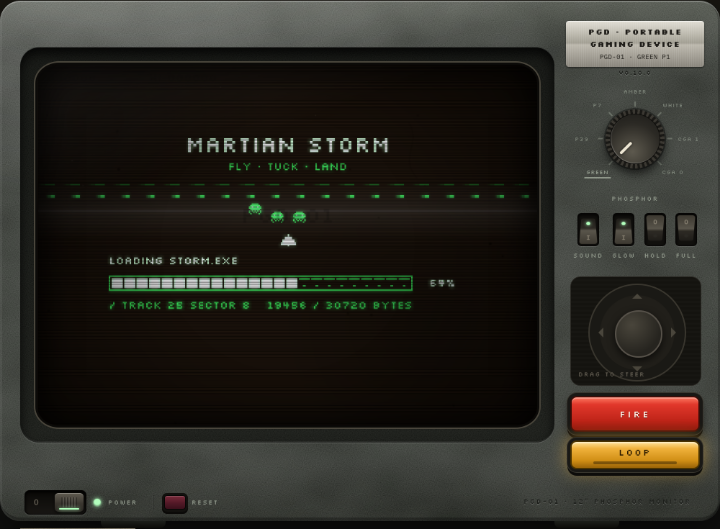
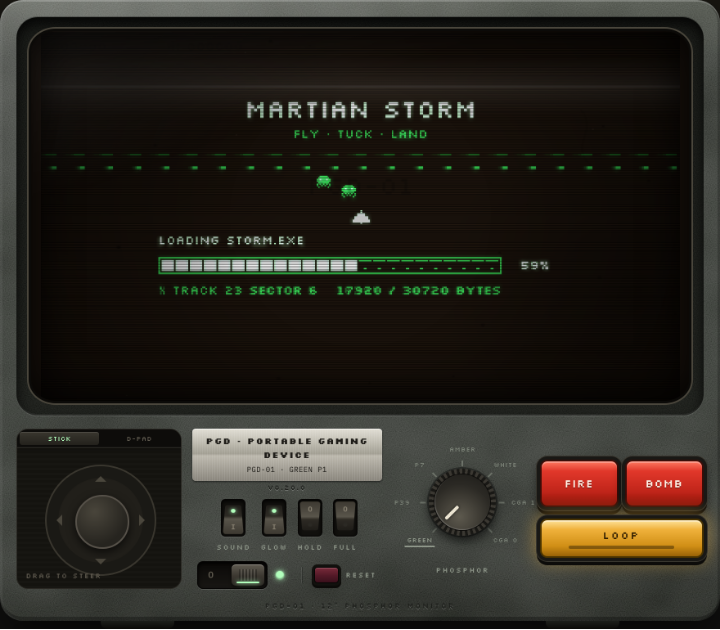
feat(console): a two-handed desk set, stick left, buttons right, full-width tube (GAM-114) (#166)
* feat(console): a two-handed desk set, stick left, buttons right, full-width tube

On desk the tube now spans the set's full width in a 16:9 shape, with a deck
under it: the stick well (and its STICK / D-PAD switch) at the far left, FIRE
and BOOST at the far right, and the nameplate, switches, POWER, RESET and the
dial between them. The set grows with the window until it fills its height.
Button-pad disks split their pad as on the sideways console. Share images and
README screenshots are re-captured.

Refs GAM-114

Claude-Session: https://claude.ai/code/session_01KVgNwszYVvfqe7MTAzj6og

* docs: the desk row of the layout table describes the control deck

Refs GAM-114

Claude-Session: https://claude.ai/code/session_01KVgNwszYVvfqe7MTAzj6og

* fix(console): line the desk switches up with the plate and POWER

The SOUND / GLOW / HOLD / FULL row was centred in the deck's middle
column; on desk it now starts at the same left edge as the nameplate
and the POWER row, with the dial still centred in its own column.

Refs GAM-114

Claude-Session: https://claude.ai/code/session_01KVgNwszYVvfqe7MTAzj6og

---------

diff --git a/src/styles/console.css b/src/styles/console.css
@@ -596,7 +596,7 @@ h1 .h-dx{color:#cfc3a3}
 .padkey:focus-visible{outline:2px solid var(--phos);outline-offset:4px}
 [data-off] .padkey{filter:saturate(.25) brightness(.5)}
 /* sideways console only: three red bays on the right with CLUSTER under them, UFO above METEORS on the left.
-   Desk and portrait keep the two-row pad inside the stick. The buttons leave their boxes and join the face grid. */
+   Portrait keeps the two-row pad inside the stick (desk splits it too, at the end of this file). The buttons leave their boxes and join the face grid. */
 [data-pad][data-layout="console"] .stickzone,[data-pad][data-layout="console"] #btnpad,[data-pad][data-layout="console"] .keyrow{display:contents}
 [data-pad][data-layout="console"] .tv-face{grid-template-rows:auto auto minmax(0,1fr) auto auto;grid-template-areas:"rock screen dial" "pwr screen dial" ". screen plate" "ufo screen bays" "met screen clus"}
 [data-pad][data-layout="console"] #btnpad .bayrow{display:grid;grid-area:bays;grid-template-columns:repeat(3,minmax(0,1fr));gap:6px;height:52px;min-width:0;margin-inline:4px;align-self:end}
@@ -615,3 +615,51 @@ h1 .h-dx{color:#cfc3a3}
    which setting is on, so the hint goes */
 .stickzone{container-type:size}
 @container (max-height:175px){.dhint{display:none !important}}
+
+/* ---- desk, the widest set (GAM-114): built for two hands. The tube spans the full width in a 16 : 9 shape; under it
+   a control deck holds the stick well at the far left, FIRE and BOOST at the far right, and the nameplate, switches,
+   POWER, RESET and the dial between them (the plate, switches and POWER row share one left edge). The set grows with the window until the whole of it fits the window's height.
+   Full screen keeps its own layout; an embedding page sizes the frame to the set, so there the width alone decides. ---- */
+@media (min-width:721px){
+  :root{--desk-min:880px}
+  :root[data-layout="desk"]:not([data-full]):not([data-embed]) .wrap{max-width:clamp(var(--desk-min), calc((100vh - 470px) * 16 / 9 + 104px), 1680px)}
+  @supports (height:100dvh){:root[data-layout="desk"]:not([data-full]):not([data-embed]) .wrap{max-width:clamp(var(--desk-min), calc((100dvh - 470px) * 16 / 9 + 104px), 1680px)}}
+  :root[data-layout="desk"]:not([data-full]) .tv-face{--fp:clamp(14px,1.6vw,22px);grid-template-columns:minmax(140px,200px) minmax(0,1fr) minmax(140px,200px);grid-template-rows:auto auto;
+    grid-template-areas:"screen screen screen" "stick ctl fire";gap:16px clamp(20px,2.6vw,36px);padding:var(--fp) var(--fp) calc(var(--fp) + 18px)}
+  :root[data-layout="desk"]:not([data-full]) .tube-surround{padding:clamp(10px,1.4vw,18px);align-self:stretch}
+  :root[data-layout="desk"]:not([data-full]) .screen{aspect-ratio:16/9}
+  :root[data-layout="desk"]:not([data-full]) .pad{display:contents}
+  :root[data-layout="desk"]:not([data-full]) .stickzone{grid-area:stick;height:auto;min-height:176px;align-self:stretch}
+  :root[data-layout="desk"]:not([data-full]) .keyrow{grid-area:fire;align-self:center;gap:14px}
+  :root[data-layout="desk"]:not([data-full]) .fire{height:58px;font-size:14px}
+  :root[data-layout="desk"]:not([data-full]) .boost{height:48px}
+  :root[data-layout="desk"]:not([data-full]) .controls{grid-area:ctl;display:grid;grid-template-columns:auto auto;grid-template-areas:"plate dial" "rock dial" "pwr dial";
+    align-content:center;justify-content:center;align-items:center;justify-items:start;gap:10px clamp(16px,2.4vw,32px)}
+  :root[data-layout="desk"]:not([data-full]) .nameplate{grid-area:plate;width:220px}
+  :root[data-layout="desk"]:not([data-full]) .dial-block{grid-area:dial;justify-self:center}
+  :root[data-layout="desk"]:not([data-full]) .rockers{grid-area:rock}
+  :root[data-layout="desk"]:not([data-full]) .power{grid-area:pwr;position:static}
+  :root[data-layout="desk"]:not([data-full]) .power > .ctl-label{display:none}
+  :root[data-layout="desk"]:not([data-full]) .emboss{left:50%;right:auto;bottom:11px;transform:translateX(-50%)}
+  /* a button-pad disk (I Invade, ROCKETX) splits its pad as on the sideways console: the red bays and CLUSTER under the right
+     hand, UFO and METEORS under the left */
+  :root[data-pad][data-layout="desk"]:not([data-full]) .stickzone,:root[data-pad][data-layout="desk"]:not([data-full]) #btnpad,:root[data-pad][data-layout="desk"]:not([data-full]) .keyrow{display:contents}
+  :root[data-pad][data-layout="desk"]:not([data-full]) .tv-face{grid-template-rows:auto auto auto;grid-template-areas:"screen screen screen" "ufo ctl bays" "met ctl clus"}
+  :root[data-pad][data-layout="desk"]:not([data-full]) .controls{grid-row:2 / span 2}
+  :root[data-pad][data-layout="desk"]:not([data-full]) #btnpad .bayrow{display:grid;grid-area:bays;grid-template-columns:repeat(3,minmax(0,1fr));gap:8px;height:64px;min-width:0;align-self:end}
+  :root[data-pad][data-layout="desk"]:not([data-full]) #btnpad .bayrow .padkey{grid-column:auto;height:100%;font-size:15px}
+  :root[data-pad][data-layout="desk"]:not([data-full]) #btnpad #pad4Btn{grid-area:clus;height:64px;font-size:12px;align-self:start}
+  :root[data-pad][data-layout="desk"]:not([data-full]) #btnpad #pad5Btn{grid-area:met;height:64px;font-size:12px;align-self:start}
+  :root[data-pad][data-layout="desk"]:not([data-full]) #boostBtn{grid-area:ufo;height:64px;width:auto;align-self:end}
+  :root[data-pad][data-layout="desk"][data-game="rocketx"]:not([data-full]) #btnpad #pad4Btn{grid-area:met}
+  :root[data-pad][data-layout="desk"][data-game="rocketx"]:not([data-full]) #btnpad #pad5Btn{grid-area:clus}
+}
+/* a narrow or short desk window: a smaller plate, dial and stick well keep the deck on one row and the set on screen */
+@media (min-width:721px) and (max-width:900px),(min-width:721px) and (max-height:820px){
+  :root{--desk-min:760px}
+  :root[data-layout="desk"]:not([data-full]) .stickzone{min-height:156px}
+  :root[data-layout="desk"]:not([data-full]) .tv-face{grid-template-columns:minmax(132px,1fr) auto minmax(132px,1fr)}
+  :root[data-layout="desk"]:not([data-full]) .nameplate{width:176px}
+  :root[data-layout="desk"]:not([data-full]) .dial-wrap{width:124px;height:124px}
+  :root[data-layout="desk"]:not([data-full]) .dial{transform:scale(.84)}
+}

diff --git a/src/components/Joystick.tsx b/src/components/Joystick.tsx
@@ -1,8 +1,8 @@
 /** The floating on-screen joystick, the fixed D-pad that can take its place (GAM-112: the switch in the well's top
     top switches STICK ↔ D-PAD, a fixed cross with diagonals; logic in src/console/dpad.ts), and the button pad that takes its place while a game that has no use for a stick
     is playing (`controls: 'pad'` on its disk: I Invade). The pad is six optional slots, `pad1`…`pad6`, in two rows
-    of three; each shows only while the game maps it (see src/console/buttons.ts). The sideways console layout
-    lifts the three bays and CLUSTER out to the right (see console.css); this markup stays one pad. */
+    of three; each shows only while the game maps it (see src/console/buttons.ts). The sideways console and desk layouts
+    lift the three bays and CLUSTER out to the right (see console.css); this markup stays one pad. */
 export function Joystick(){
   return (
     <div className="stickzone" id="stickzone" aria-label="Joystick: touch and drag to steer">

diff --git a/tools/share-images/share.css b/tools/share-images/share.css
@@ -1,6 +1,6 @@
 html,body{margin:0;width:1200px;height:630px;overflow:hidden}
 body{position:relative;background:radial-gradient(90% 75% at 64% -6%,#2e2a22 0,#1a1813 46%,#111110 80%) #111110;color:#ddd3ba;font-family:Spectral,Georgia,serif}
-.tv{position:absolute;right:-56px;top:48px;width:690px;filter:drop-shadow(0 28px 36px rgba(0,0,0,.7))}
+.tv{position:absolute;right:20px;top:30px;width:620px;filter:drop-shadow(0 28px 36px rgba(0,0,0,.7))}
 .copy{position:absolute;left:60px;top:58px;width:470px;display:flex;flex-direction:column;gap:16px}
 h1{margin:0;font-family:"Barlow Condensed",sans-serif;font-weight:700;font-size:58px;line-height:1;letter-spacing:.18em;text-transform:uppercase;color:#e4dac0}
 h1 small{display:block;font-size:22px;letter-spacing:.2em;color:#a99d84;margin-top:10px}

diff --git a/AGENTS.md b/AGENTS.md
@@ -99,7 +99,7 @@ Requirements 1 to 12 below are built: the console boots into a disk menu with se
 ### 10. I Invade
 
 - The fourth disk: the fixed-screen alien shooter played from the other side, after the owner's brief and direction (GAM-24). The fleet starts at the bottom of the screen and attacks upward; the tanks hold the top (GAM-23). **No steering:** the fleet marches on its own, side to side, a row closer at each edge and faster as it thins. The player only picks which of the three bomb bays fires, and when (the outermost columns and the one nearest the fleet's middle, lit along its front): aiming is timing. Everything the fleet throws goes up.
-- **No joystick:** the disk sets `controls: 'pad'`, so while it plays (`ready`, `play`, `dying`, `clear`, `paused`) the stick's zone holds a button pad (`pad1`…`pad6`, two rows of three: ◀ ▲ ▶ bays on top, CLUSTER and METEORS underneath, sixth unused) and FIRE's row steps aside. On the sideways console layout only (`data-layout="console"`, short, tall and full screen) the three red bays sit on the right with CLUSTER under them, and UFO sits above METEORS on the left. Desk and the portrait layouts keep the two-row pad. Keys: <kbd>←</kbd> <kbd>↑</kbd> <kbd>→</kbd> or <kbd>Z</kbd> <kbd>X</kbd> <kbd>C</kbd> for the bays, <kbd>Space</kbd> (FIRE, labelled BOMB) for the middle one, <kbd>A</kbd> cluster, <kbd>S</kbd> meteors, <kbd>Shift</kbd> (BOOST, labelled UFO) the UFO. A tap on the screen fires the nearest bay (`api.tapX`). The stick is back for the console's own screens.
+- **No joystick:** the disk sets `controls: 'pad'`, so while it plays (`ready`, `play`, `dying`, `clear`, `paused`) the stick's zone holds a button pad (`pad1`…`pad6`, two rows of three: ◀ ▲ ▶ bays on top, CLUSTER and METEORS underneath, sixth unused) and FIRE's row steps aside. On the sideways console layout (`data-layout="console"`, short, tall and full screen) and on desk (GAM-114) the three red bays sit on the right with CLUSTER under them, and UFO sits above METEORS on the left. The portrait layouts keep the two-row pad. Keys: <kbd>←</kbd> <kbd>↑</kbd> <kbd>→</kbd> or <kbd>Z</kbd> <kbd>X</kbd> <kbd>C</kbd> for the bays, <kbd>Space</kbd> (FIRE, labelled BOMB) for the middle one, <kbd>A</kbd> cluster, <kbd>S</kbd> meteors, <kbd>Shift</kbd> (BOOST, labelled UFO) the UFO. A tap on the screen fires the nearest bay (`api.tapX`). The stick is back for the console's own screens.
 - **The brief's rules:** one fleet a game, no spares (a fresh formation each wave; lose every alien and the invasion is repelled). Tanks have three lives: a knocked-out tank is gone for 1.4 s, then rolls back in blinking and untouchable for 1.2 s. Teams per wave `[1, 1, 2, 3, 3, 4, 5, 6]`, holding at 6. Scoring: hit a tank 100, destroy one 300, every tank destroyed 20 per alien left, touchdown 500 + 20 per alien left.
 - **Weapons:** bombs (one in the air per bay, two from wave 6, 0.3 s apart); the cluster sweep (the earth-facing alien in each column, the lowest row index still alive, so a damaged column can fire from a different row: one shot at a time, left to right then right to left, for about 3 s; armed 2.5 s into a wave, then the button stays dark for another 7 s); the UFO carpet (crosses under the fleet, a bomb up every 0.3 s, 12 s recharge, starts half charged, shells through a gap bring it down); the meteor swarm (18 rocks from below the fleet, charged by other weapons' hits and a slow trickle, a bar under the score).
 - **Tanks:** `skill` 0 on wave 1 to 1 by wave 6, then only reload shortens. They dodge what's coming up (probabilistically), lead the march when they aim, fire one shell each (a shell knocks out a bomb or a cluster shot and carries on), hunt the bay that fired last, keep 16 px apart, and fire through their own walls when every column left is behind one.
@@ -238,6 +238,7 @@ Launcher fields on every disk (GAM-32, see the [Web launcher build spec](https:/
 - **One monitor, many games.** The CRT set, the phosphor dial, the SOUND / GLOW / HOLD / FULL switches, POWER and RESET belong to the console and work the same in every game.
 - **Retro and original.** Games are tributes at most: original names, characters, art, sound and code. Never copy another game's assets or trademarks.
 - **Four colours.** Everything on the tube goes through the palette quantiser and colour roles, so it looks right on green, amber, white and CGA.
+- **Desk, built for two hands (GAM-114, owner's call):** on `desk` the tube spans the set's full width in a 16 : 9 shape, and a deck under it holds the stick well at the far left, FIRE and BOOST at the far right, and the nameplate, switches, POWER, RESET and the dial between them. The set grows with the window until it fills the window's height (the `.wrap` formula at the end of `console.css`); an embed frame keeps the width-only sizing.
 - **Every screen size.** The layout detector picks `desk`, `phone-portrait`, `tablet-portrait` or `console`, and the playfield grid adapts to the tube's shape. The loader and every loading screen have to fit all of them, including the iPhone 17 Pro and Pro Max, an opened foldable, iPad mini and iPad Pro, in portrait and landscape.
 - **Offline.** The console and every game must play with no connection once cached. Anything in `public/` or built from `src/` is precached; files fetched some other way need a `runtimeCaching` rule in `astro.config.mjs`.
 - **Languages.** The page chrome and instructions come in English, Traditional Chinese and Simplified Chinese (`I18N`, chosen by `#en`, `#zh-hant` or `#zh-hans`). On-tube text stays English in the pixel font.

diff --git a/README.md b/README.md
@@ -48,7 +48,7 @@ Each game also has its own page that boots straight into its disk: `/tunnel-raid
   - **Switches:** SOUND, GLOW (all the tube effects), HOLD (pause) and FULL (full screen). HOLD switches itself on when you leave the tab or app mid-game, and stays on until you resume.
 - **FIRE and BOOST** change with the game: FIRE and BOOST in Tunnel Raider, JUMP and DUCK in Dino Run, FIRE and SHIELD in Invader Force (SHIELD turns into NUKE while you hold an atomic bomb), BOMB and UFO in I Invade, SERVE in Bricks, where BOOST stays dark, and FIRE, BOMB and LOOP in Martian Storm, and KICK in Reef Run, where BOOST stays dark. LOOP spends one tuck per press; BOMB (or <kbd>V</kbd>) sets off a bomb. In Dino Run and Invader Force a tap on the screen works as JUMP or FIRE; in I Invade it fires the nearest bomb bay; in Bricks it serves, and does nothing while the ember is already in the air; in Martian Storm it shoots, and it does not tuck; in Reef Run it kicks.
 - **Stick or D-pad:** the switch along the top of the joystick's well picks **STICK** (the floating thumb-stick) or **D-PAD** (a fixed cross, like a handheld's: press an arm, roll your thumb from one to the next, or press between two arms for a diagonal). Every game plays in both; games that move in four directions take the main one, and Martian Storm's skiff flies diagonally as it does with two keys. A game can ask to start on one or the other (the disk's `joystick` field); flip it in a game and that game remembers your pick, while the menu keeps your own setting. Settings stay on the device, and Settings reset puts STICK back and every game on its own preference. Logic in `src/console/dpad.ts`.
-- **The button pad:** a game with no use for the stick (I Invade) swaps it for a pad of up to six buttons while it plays, and FIRE's row steps aside. In I Invade the top row is the left, middle and right bomb bays (◀ ▲ ▶, or <kbd>←</kbd> <kbd>↑</kbd> <kbd>→</kbd>, <kbd>Z</kbd> <kbd>X</kbd> <kbd>C</kbd>; <kbd>Space</kbd> is the middle bay too) and the bottom row the cluster sweep (<kbd>A</kbd>) and the meteor swarm (<kbd>S</kbd>, dimmed until charged); BOOST (<kbd>Shift</kbd>) calls the UFO. On the sideways console layout the three red bays move to the right with CLUSTER under them, and UFO sits above METEORS on the left; desk and the portrait layouts keep the two-row pad. The stick is back for the menu, loading, name entry and the high scores.
+- **The button pad:** a game with no use for the stick (I Invade) swaps it for a pad of up to six buttons while it plays, and FIRE's row steps aside. In I Invade the top row is the left, middle and right bomb bays (◀ ▲ ▶, or <kbd>←</kbd> <kbd>↑</kbd> <kbd>→</kbd>, <kbd>Z</kbd> <kbd>X</kbd> <kbd>C</kbd>; <kbd>Space</kbd> is the middle bay too) and the bottom row the cluster sweep (<kbd>A</kbd>) and the meteor swarm (<kbd>S</kbd>, dimmed until charged); BOOST (<kbd>Shift</kbd>) calls the UFO. On the sideways console layout and on desk the three red bays move to the right with CLUSTER under them, and UFO sits above METEORS on the left; the portrait layouts keep the two-row pad. The stick is back for the menu, loading, name entry and the high scores.
 - **Instructions:** the printed leaflet under the set shows the console's instructions while the menu is up and the loaded game's while you play.
 - **Settings:** the foot of the leaflet has **Reset settings** (green P1, SOUND and GLOW on, HOLD and FULL off, English) and, kept apart in wine red, **Clear high scores** (every game's table and best, and the saved name, on this device). Each asks before it acts.
 - **Haptics:** on phones whose browser can vibrate (Chrome on Android, for one; Safari on iPhone and iPad can't), the set's controls tick when pressed (POWER, RESET, the four switches, each click of the dial, FIRE, BOOST, the extra fire keys and I Invade's button pad), a shot gives a short buzz, a catch in Invader Force a quick double buzz, and a lost life or the game's end a longer one. The stick gives a tiny nudge on each new direction. SOUND off keeps the phone still. Games call `api.buzz('fire' | 'pickup' | 'lose' | ms | pattern)`; the rules are in `src/kit/platform/haptics.ts`.

diff --git a/docs/developer-guide.md b/docs/developer-guide.md
@@ -376,12 +376,12 @@ The console's layout follows the screen, and the game has no say in it:
 
 | Layout | Stick or pad | FIRE and BOOST |
 | --- | --- | --- |
-| Desk (a computer) | Controls column right of the tube | Under the stick |
+| Desk (a computer) | Far left of the control deck under the full-width tube | Far right of the deck; the plate, switches, POWER, RESET and dial sit between |
 | Console (phone sideways) | Left of the tube | Right of the tube, under the dial and the plate |
 | Tall console (tablet or foldable sideways) | Full height, left of the tube | Bottom right, under the dial and the switches |
 | Phone and tablet upright | Under the tube, on the left | Under the tube, on the right |
 
-On desk and the upright layouts the pad keeps its two rows. On the sideways console layouts it is split for I Invade: `pad1` to `pad3` on the right with `pad4` under them, and BOOST above `pad5` on the left. `pad6` has no place there yet. ROCKETX swaps `pad4` and `pad5` there (its left fin goes to the left hand), keyed on `data-game`; a further pad game with a different set of keys means another such block in `src/styles/console.css`.
+On the upright layouts the pad keeps its two rows. On desk and the sideways console layouts it is split for I Invade: `pad1` to `pad3` on the right with `pad4` under them, and BOOST above `pad5` on the left. `pad6` has no place there yet. ROCKETX swaps `pad4` and `pad5` there (its left fin goes to the left hand), keyed on `data-game`; a further pad game with a different set of keys means another such block in `src/styles/console.css`.
 
 ### What a game can't do with buttons (yet)
 
